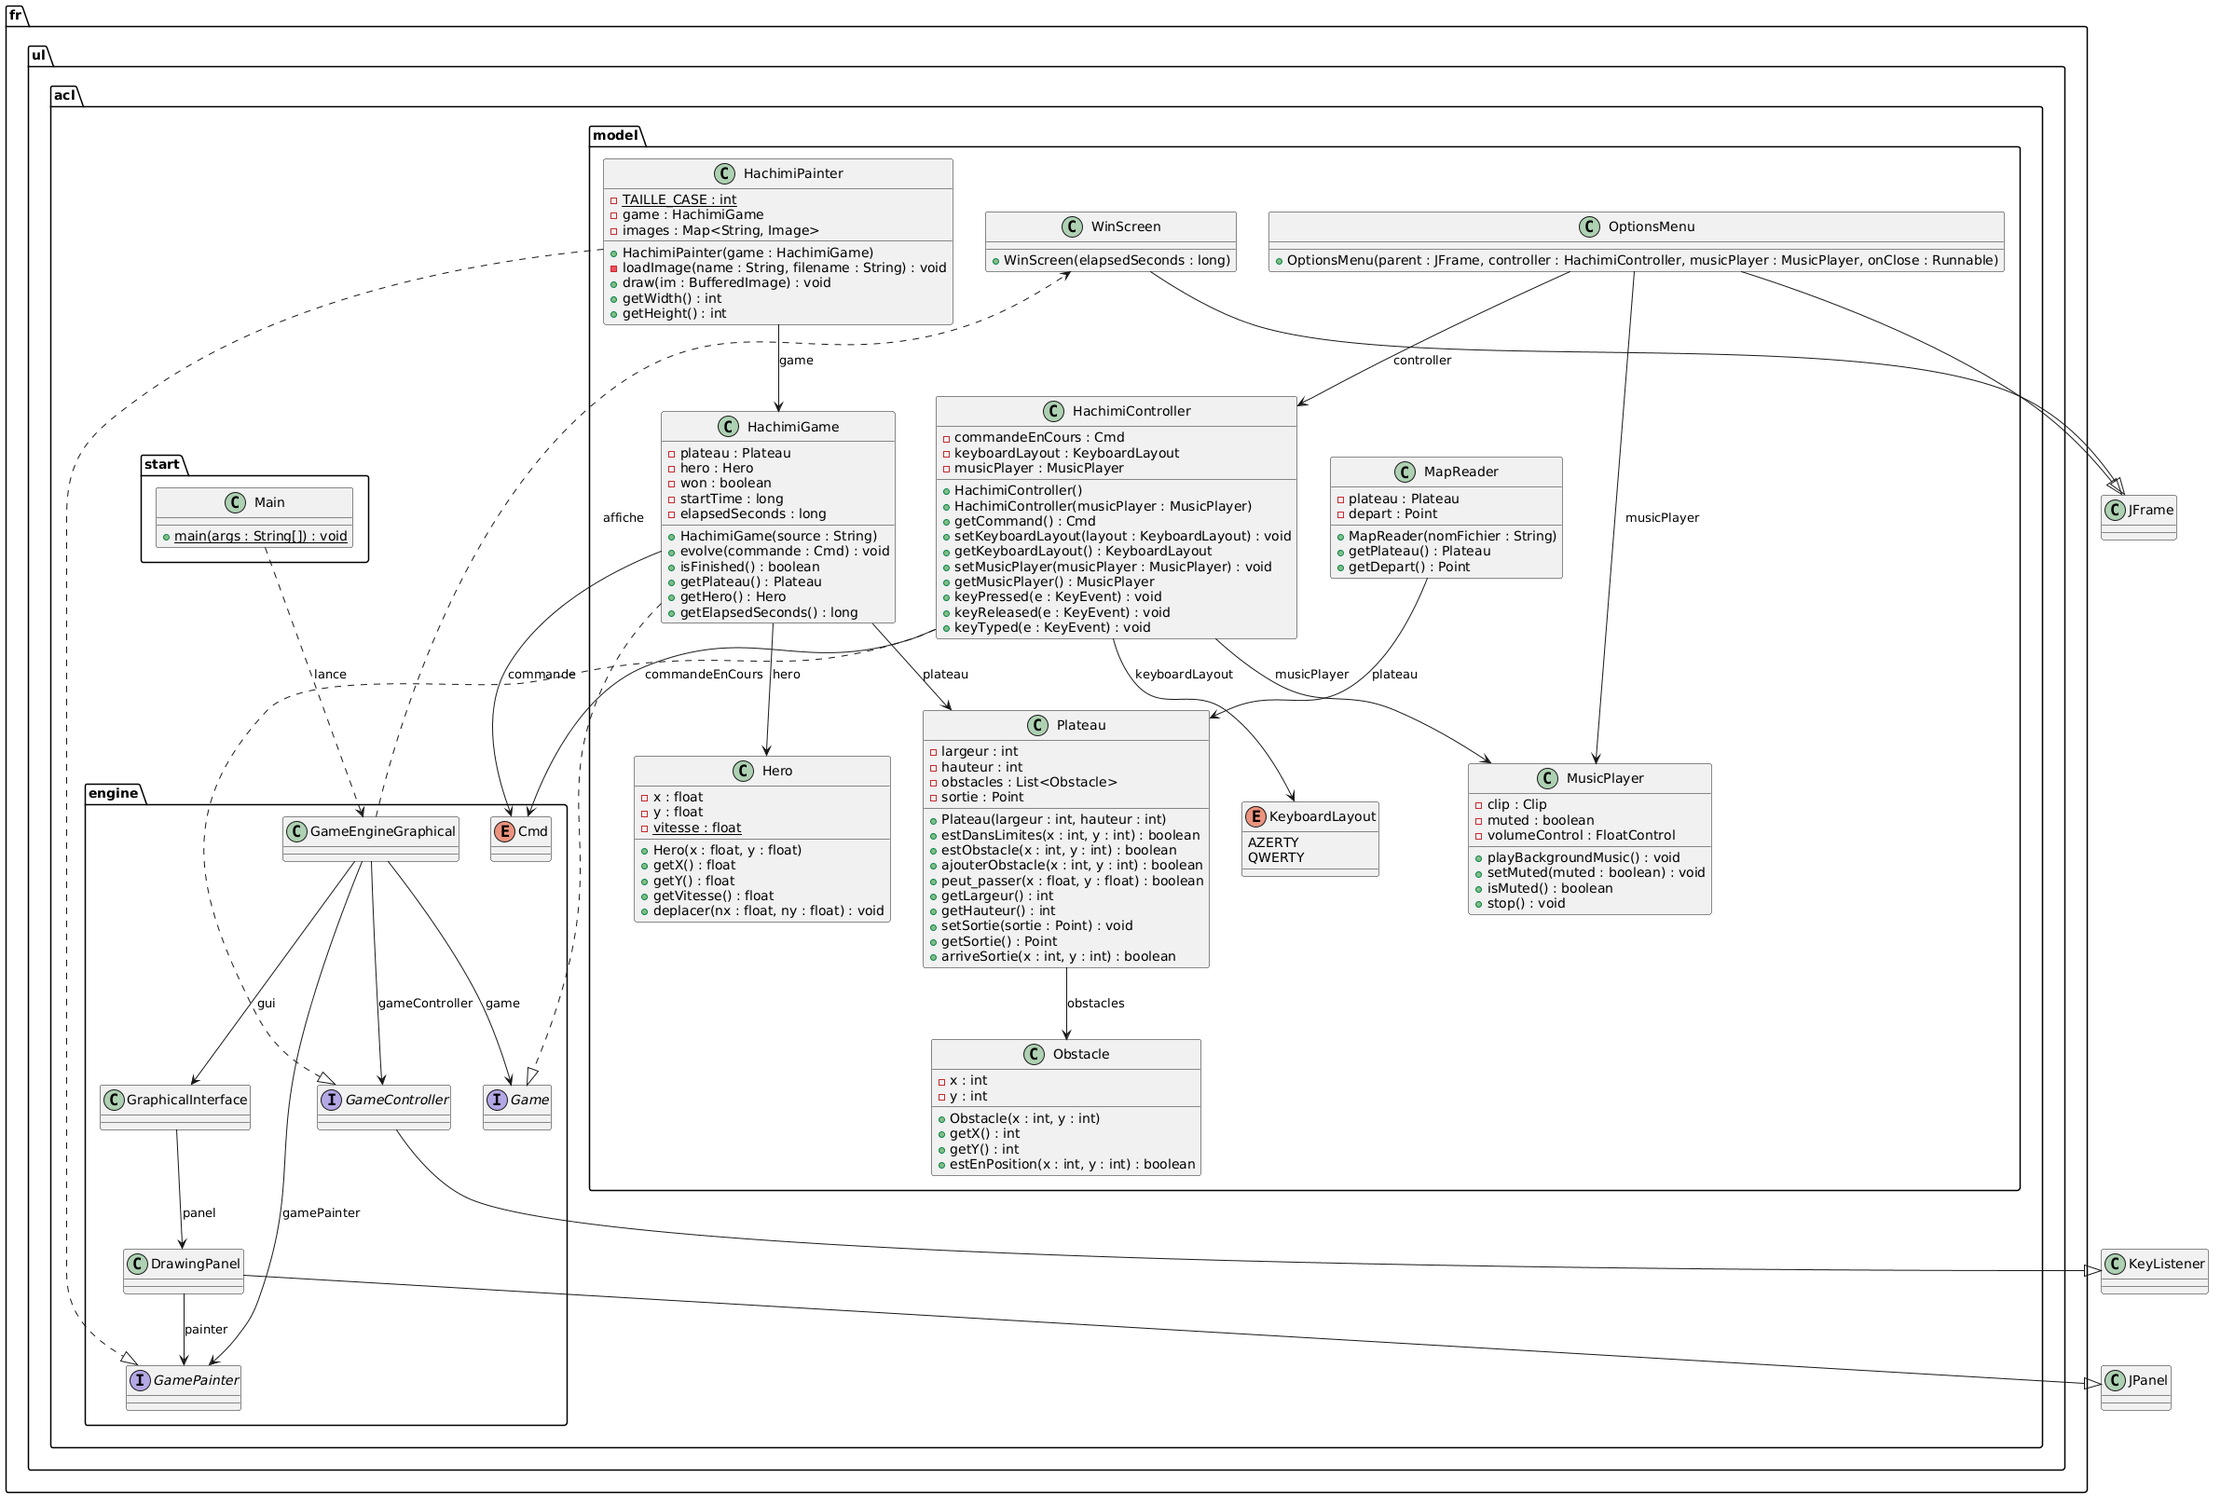
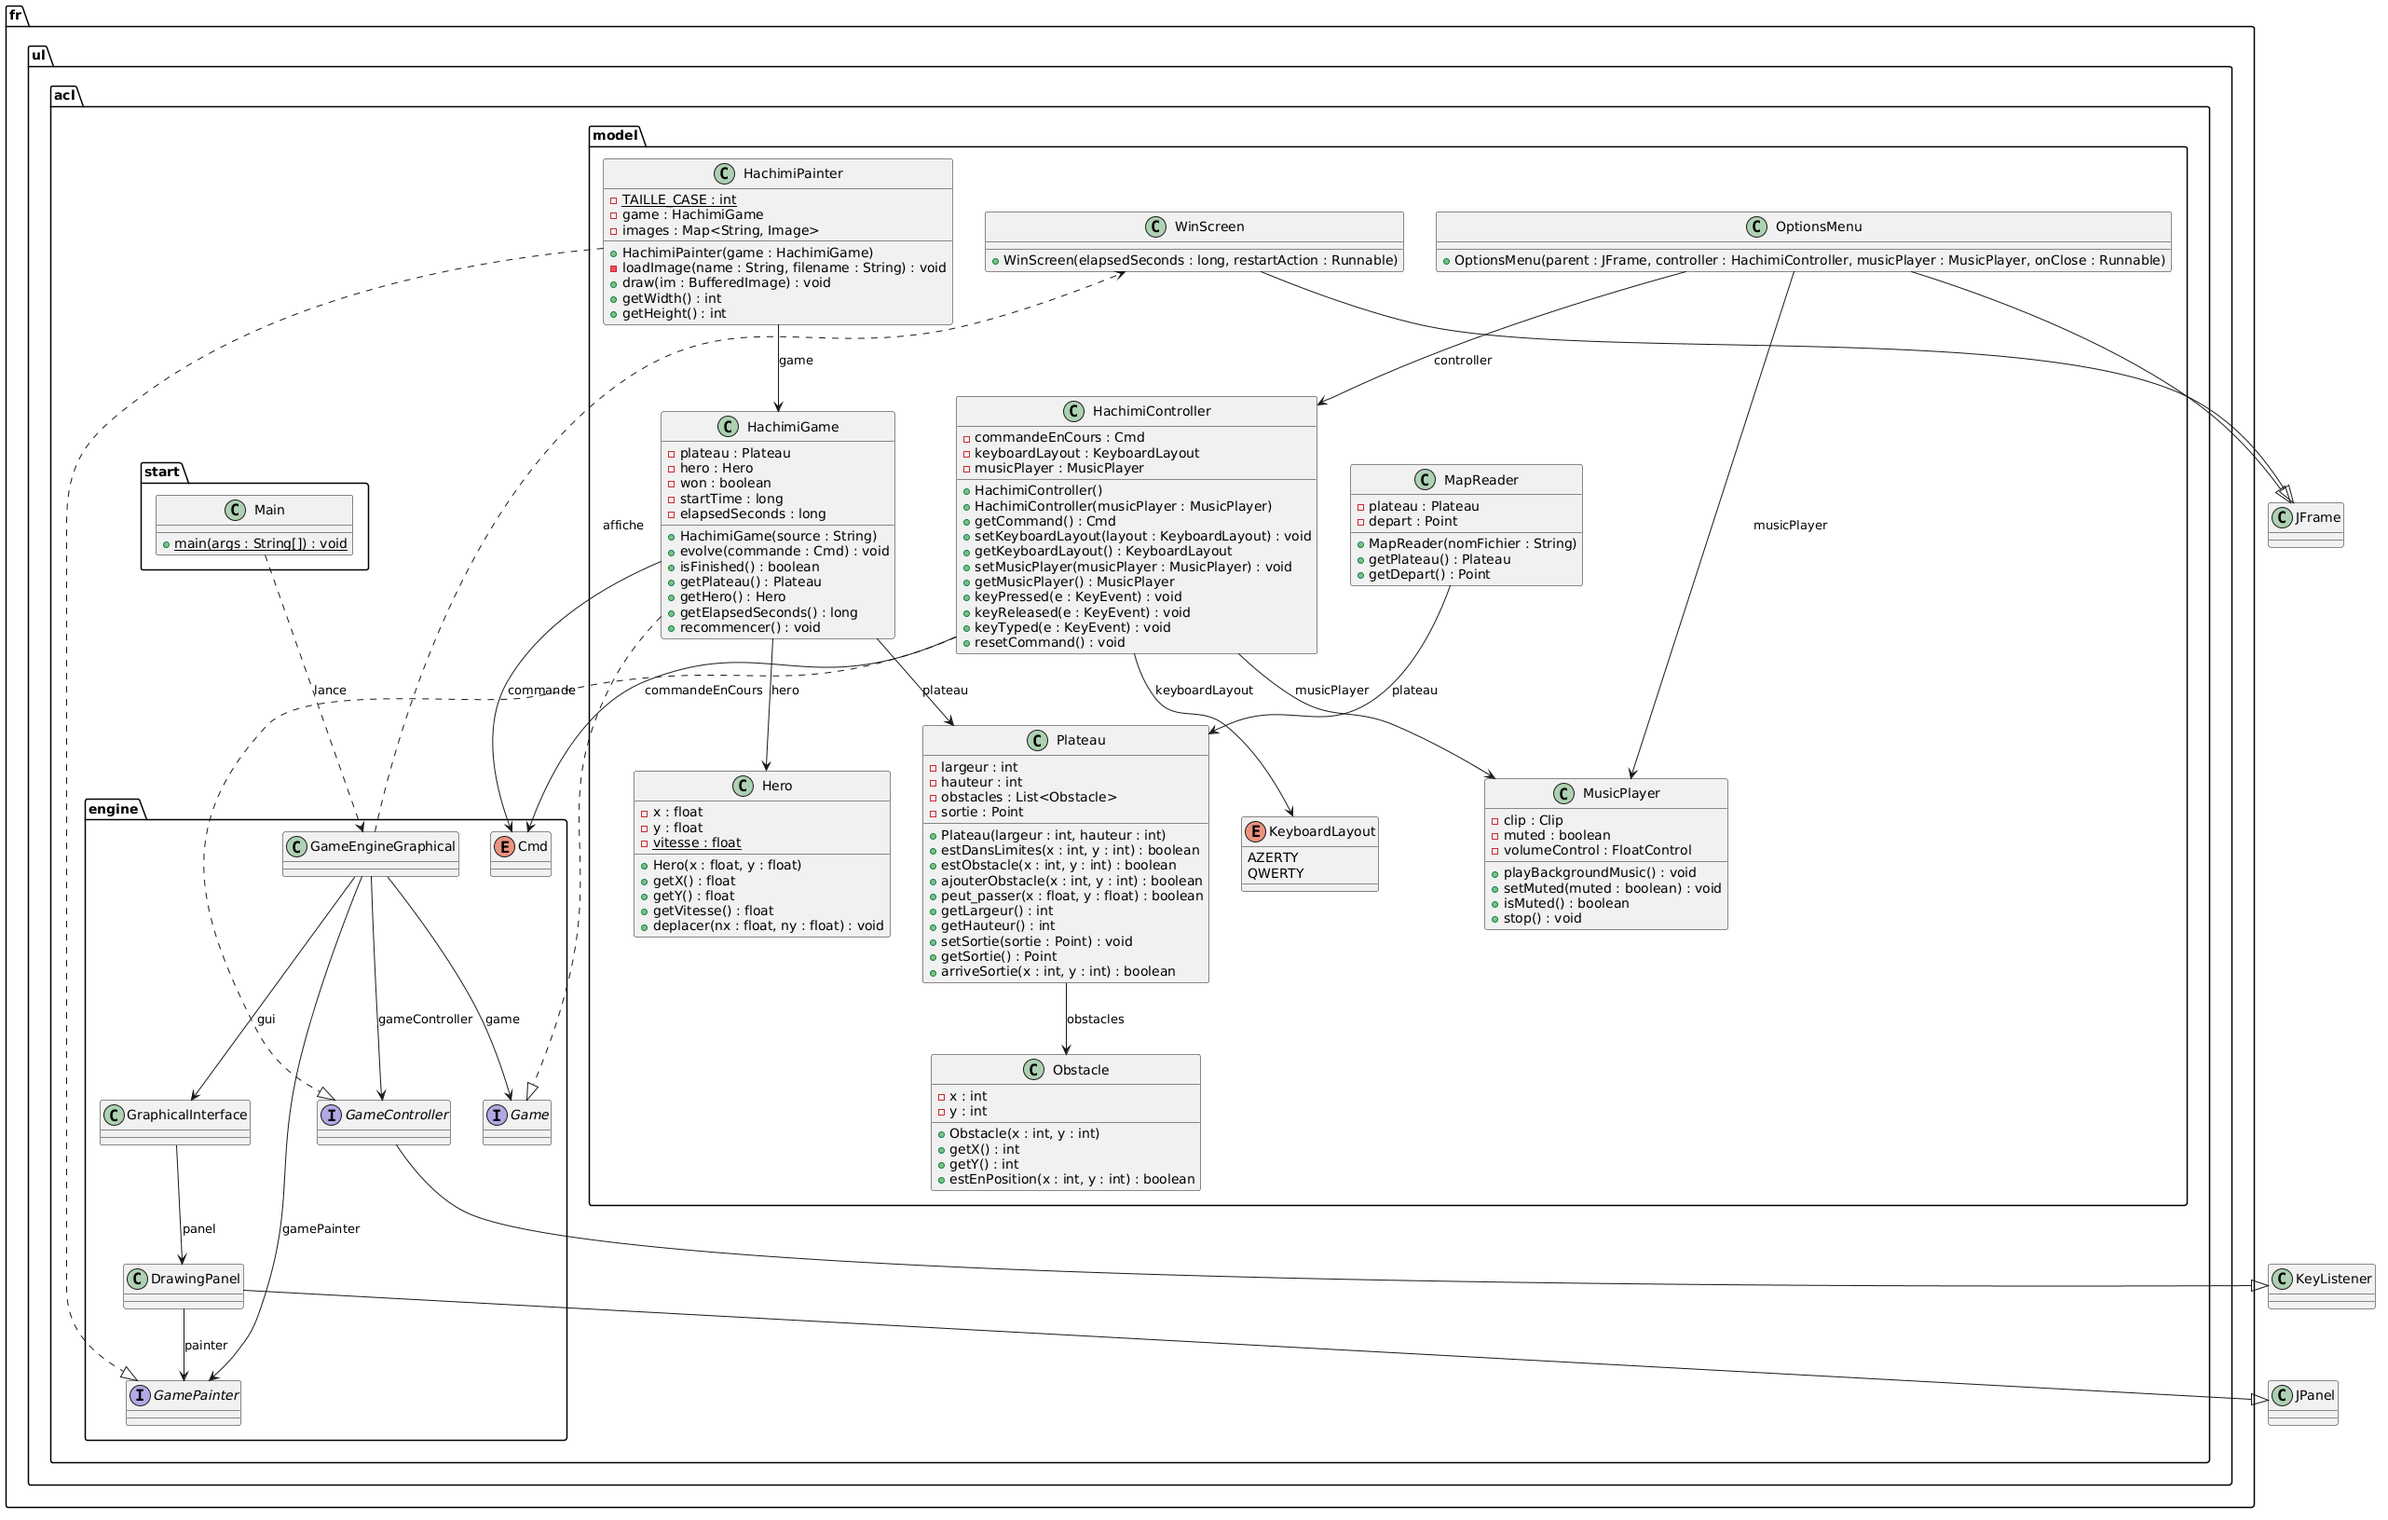
mise a jour uml et review sprint2

diff --git a/backlog/sprint2/review.md b/backlog/sprint2/review.md
@@ -1,0 +1,55 @@
+# Sprint 2 — Revue de sprint
+
+Bilan : Le Sprint 2 est globalement terminé. Toutes les tâches ont été réalisées, à l'exception de l'ajout de plusieurs niveaux et cartes de difficulté différente.
+
+## 1. Bilan des tâches réalisées
+
+### Priorité haute
+
+| Tâche                                                      | Responsable | Statut    |
+| ---------------------------------------------------------- | ----------- | --------- |
+| Implémenter le jeu avec une interface graphique            | Alson       | Terminé |
+| Gérer la sortie du labyrinthe et détecter la victoire      | Alson       | Terminé |
+| Afficher un écran de victoire avec le temps de jeu réalisé | Alson       | Terminé |
+| Écrire les tests unitaires                                 | Paulino     | Terminé |
+
+### Priorité moyenne
+
+| Tâche                                                                                             | Responsable       | Statut        |
+| ------------------------------------------------------------------------------------------------- | ----------------- | ------------- |
+| Charger une carte depuis un fichier et initialiser le plateau, la position de départ et la sortie | Alson             | Terminé     |
+| Améliorer l'affichage avec le sprite du héros et des textures de base                             | Alson             | Terminé     |
+| Ajouter plusieurs niveaux ou cartes de difficulté différente                                      | Barae et Mohammed | ❌ Pas commencé |
+| Ajouter la possibilité de reprendre la partie                                                     | Moutawakil        |  Terminé     |
+
+### Priorité basse
+
+| Tâche                                                                            | Responsable | Statut    |
+| -------------------------------------------------------------------------------- | ----------- | --------- |
+| Ajouter un menu d'options pour choisir la disposition du clavier (AZERTY/QWERTY) | Alson       | Terminé |
+| Ajouter de la musique et une option pour couper ou réactiver                     | Alson       | Terminé |
+
+## 2. Résultats du sprint
+
+Les principales réalisations sont :
+
+- Interface graphique : intégration de l'interface permettant de jouer directement dans le labyrinthe.
+- Mécanique de jeu : gestion des déplacements, des collisions, de la sortie et de la détection de la victoire.
+- Système de cartes : lecture des cartes depuis des fichiers et initialisation automatique du plateau, du point de départ et de la sortie.
+- Écran de victoire : affichage du temps réalisé à la fin d'une partie.
+- Personnalisation : ajout du choix entre les dispositions AZERTY et QWERTY.
+- Ambiance sonore : intégration de la musique avec la possibilité de la désactiver ou de la réactiver.
+- Reprise de partie : possibilité de reprendre une partie en cours.
+- Tests : réalisation des tests unitaires.
+
+
+## 3. Conclusion
+
+Le Sprint 2 est globalement réussi. La quasi-totalité des tâches prévues dans le backlog a été réalisée, permettant d'obtenir une version fonctionnelle et jouable de Hachimi.
+
+La fonctionnalité de sélection de plusieurs niveaux et cartes reste à finaliser:
+- La création de plusieurs cartes avec des configurations différentes.
+- La mise en place de plusieurs niveaux de difficulté.
+- La possibilité de sélectionner un niveau avant de commencer une partie.
+
+Elle sera donc conservée dans le backlog pour être reprise lors du prochain sprint.
